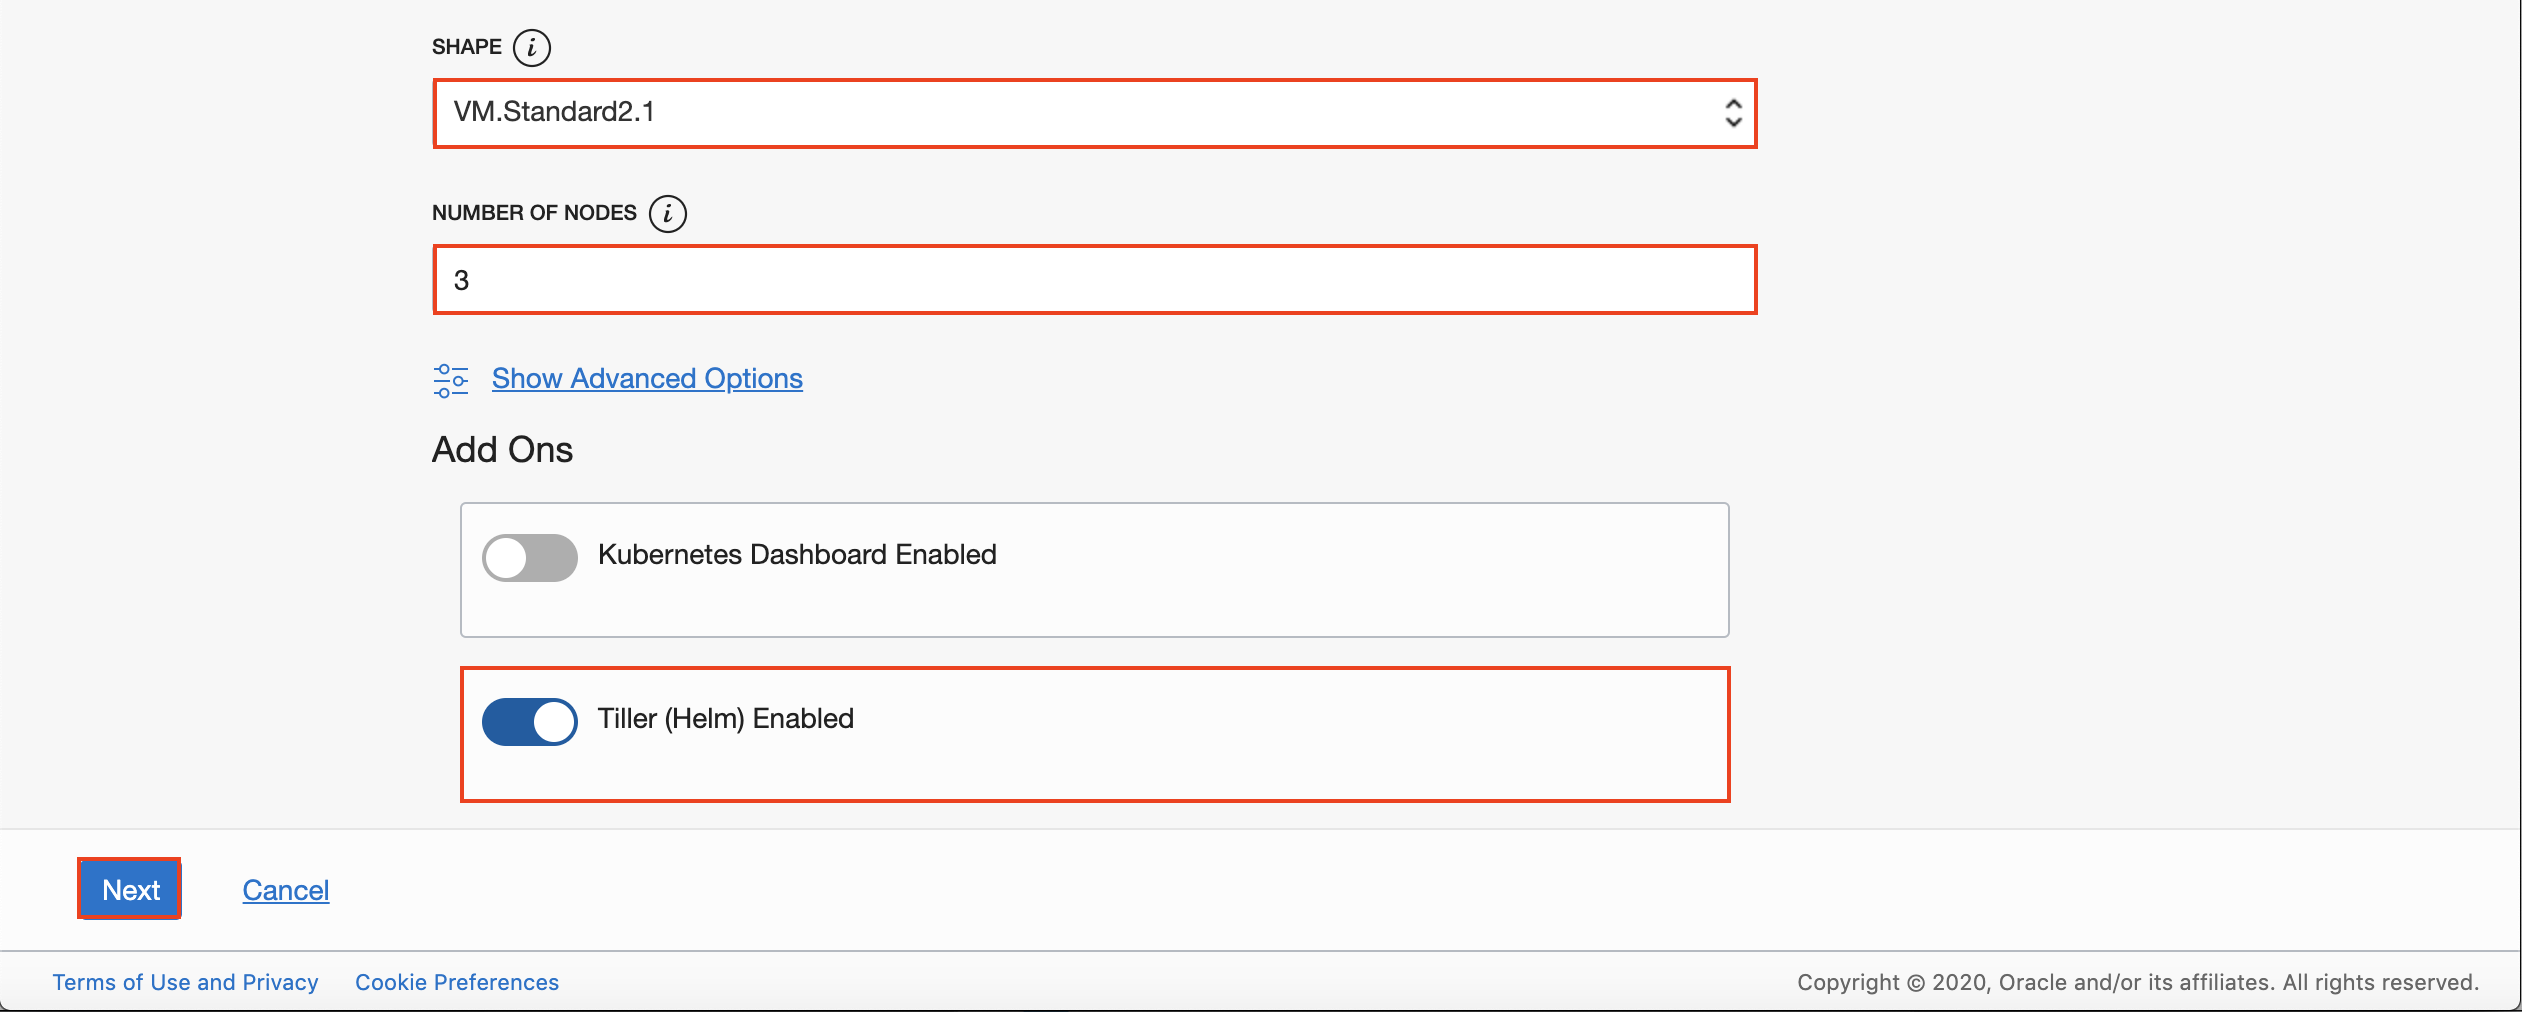
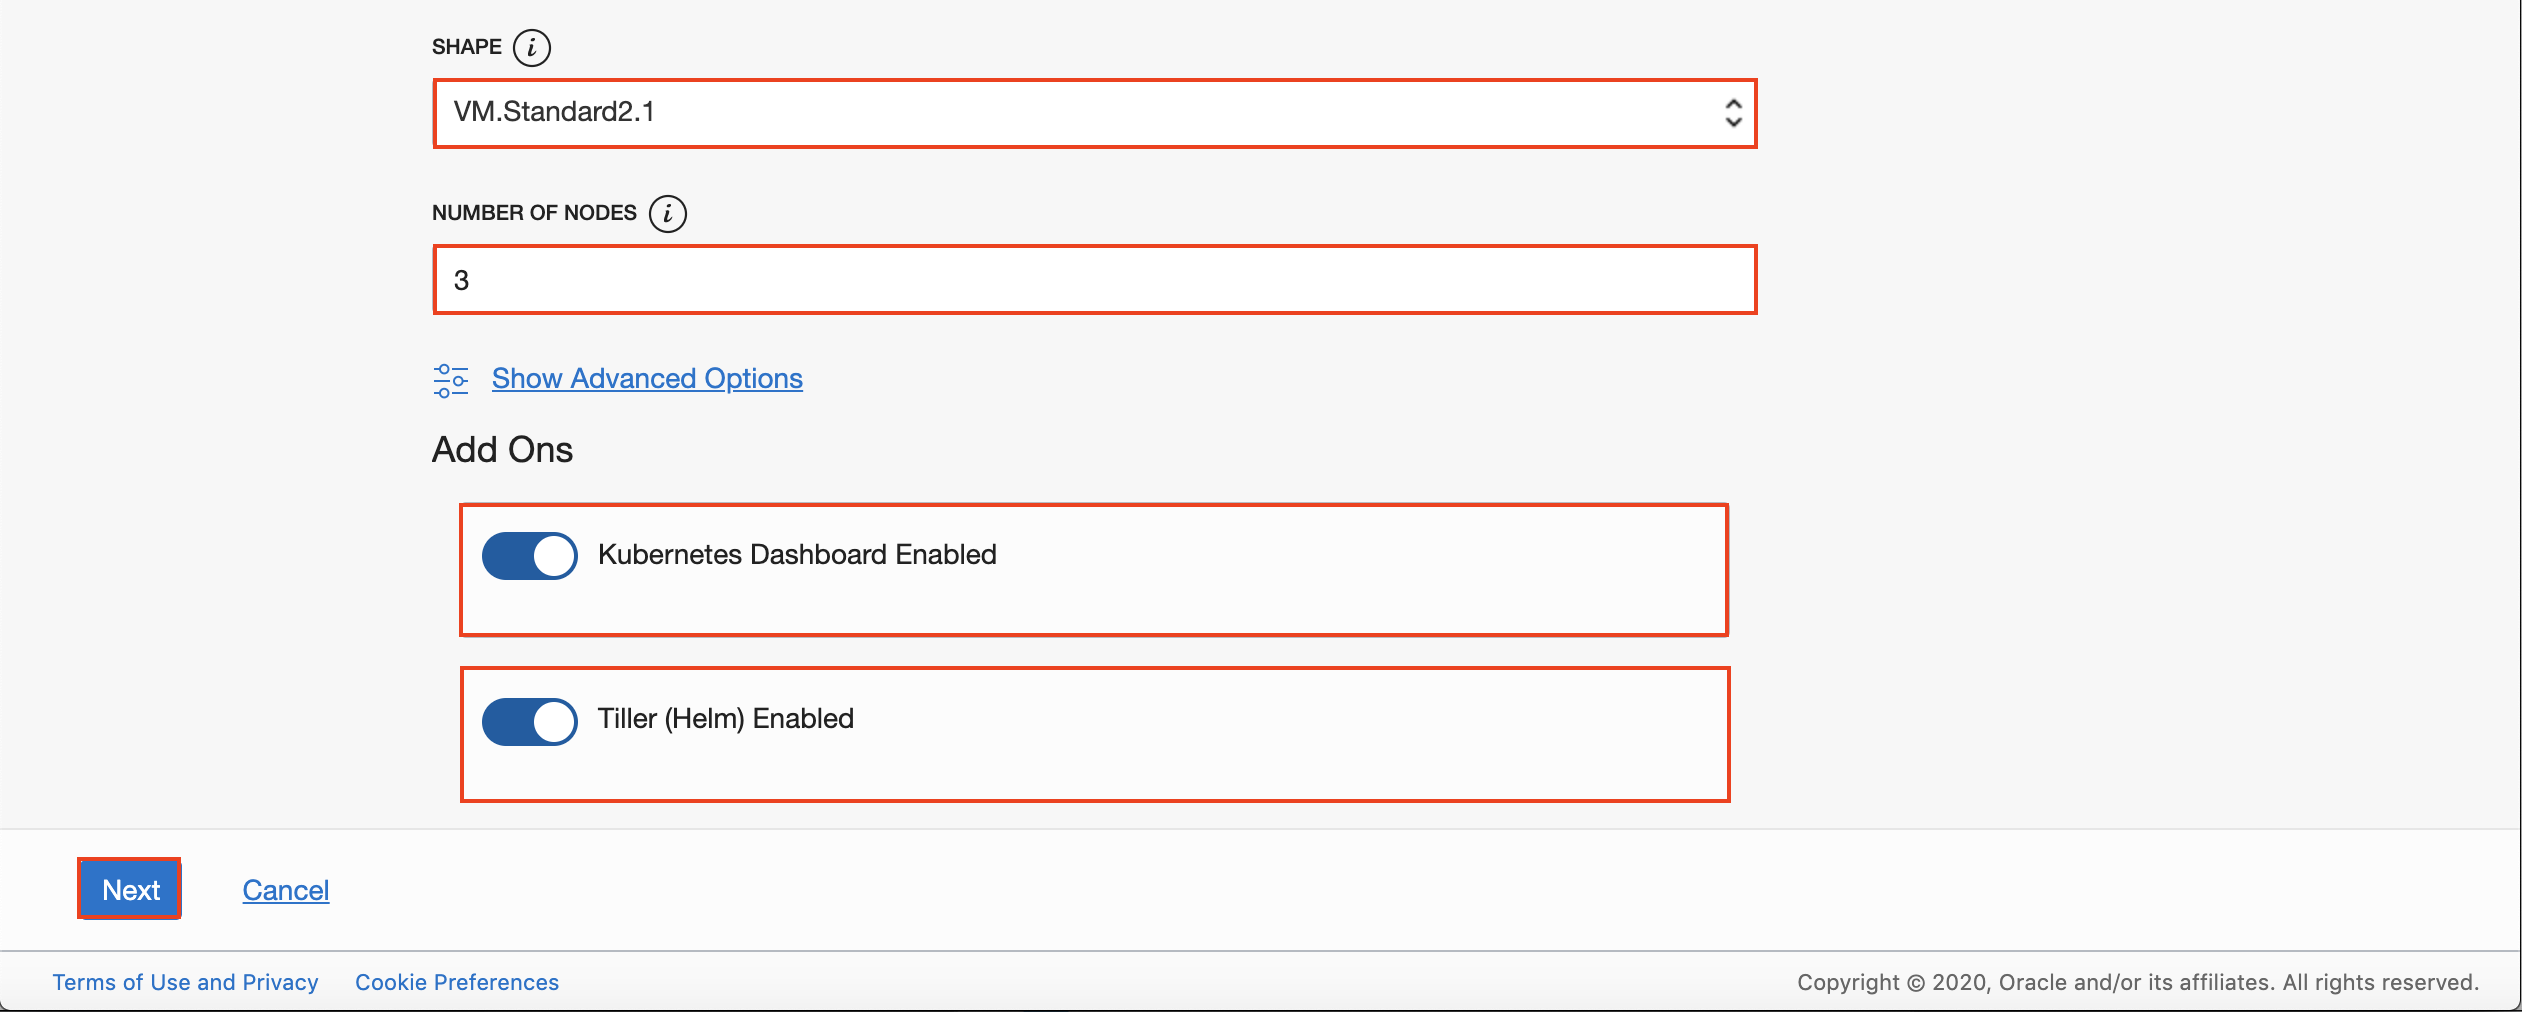
Updated with new screen captures

Changed region(s): [[0.1856, 0.4901, 0.6804, 0.582], [0.1856, 0.6126, 0.6804, 0.6433]]

diff --git a/tutorials/setup.oke.md b/tutorials/setup.oke.md
@@ -84,38 +84,47 @@ On the Cluster List page, click **Create Cluster**.
 
 ![alt text](images/oke/008.create.cluster.png)
 
-Specify the following configuration details:
+In the Create Cluster Solution dialog, select Quick Create and click Launch Workflow.
 
-- **Name**: The name of the new cluster. For example the default *cluster1*
-- **Kubernetes Version**: The Kubernetes version that runs on the master nodes and worker nodes of the cluster. Select the latest version.
-- Select **Quick Create** to create a new cluster with default settings, along with new network resources for the new cluster.
-The Create Virtual Cloud Network panel shows the network resources that will be created for you by default, namely a VCN, two load balancer subnets, and three worker node subnets.
+![alt text](images/oke/009.quick.1.png)
 
-	The Create Node Pool panel shows the fixed properties of the first node pool in the cluster that will be created for you:
+Select Quick Create to create a new cluster with default settings, along with new network resources for the new cluster. The Create Virtual Cloud Network panel shows the network resources that will be created for you by default, namely a VCN, two load balancer subnets, and three worker node subnets.
 
-	- the name of the node pool (always pool1)
-	- the compartment in which the node pool will be created (always the same as the one in which the new network resources will reside)
-	- the version of Kubernetes that will run on each worker node in the node pool (always the same as the version specified for the master nodes)
-        - the image to use on each node in the node pool
 
-The Create Node Pool panel also contains some node pool properties that you can change.
-- **Shape**: The shape to use for each node in the node pool. The shape determines the number of CPUs and the amount of memory allocated to each node. The list shows only those shapes available in your tenancy that are supported by Container Engine for Kubernetes. Select the available *VM.Standard2.1*
-- **Quantity per Subnet**: The number of worker nodes to create for the node pool in each subnet. Set *1*
-- **Public SSH Key**: Leave this field empty (screenshot contains some key - but for simplicity leave this empty)
-- **Kubernetes Dashboard Enabled**: leave the default true.
-- **Tiller (Helm) Enabled**: leave the default true.
+Specify the following configuration details on Cluster Creation page:
 
-Click **Create** to create the new network resources and the new cluster.
+- **Name**: The name of the cluster. Leave the default value.
+- **Compartment**: The name of the compartment. Leave the default value.
+- **Kubernetes version**: The version of the Kubernetes. Leave the default value.
+- **Choose Visibility Type**: Is the cluster going to be routable or not. Leave the default value.
+- **Shape**: The shape to use for each node in the node pool. The shape determines the number of CPUs and the amount of memory allocated to each node. The list shows only those shapes available in your tenancy that are supported by Container Engine for Kubernetes. Select the available VM.Standard2.1
+- **Number of nodes**: The number of worker nodes to create. Leave the default value 3
+- **Kubernetes Dashboard Enabled**: Change the default true and make it ENABLED.
+- **Tiller (Helm) Enabled**: Change the default true and make it ENABLED.
 
-![alt text](images/oke/009.quick.part.1.png)
-![alt text](images/oke/009.quick.part.2.png)
-![alt text](images/oke/009.quick.part.3.png)
+Click **Next** to review the details you entered for the new cluster.
 
-Click **Close** to return to the Console.
+![alt text](images/oke/009.quick.details.1.png)
+![alt text](images/oke/009.quick.details.2.png)
+
+On the Review page, click **Submit** to create the new network resources and the new cluster.
+
+![alt text](images/oke/009.quick.review.1.png)
+![alt text](images/oke/009.quick.review.2.png)
+![alt text](images/oke/009.quick.review.3.png)
+
+
+You see the different network resources being created for you.
+
+![alt text](images/oke/009.quick.submitted.png)
+
+Click **Close** and the new cluster is shown on the *Cluster Details* page. When it has been created, the new cluster has a status of *Active*.
+
+
 
 ## Prepare OCI CLI to download Kubernetes configuration file ##
 
-When you create a cluster, you need to download a Kubernetes configuration file (commonly known as a `kubeconfig` file) for the cluster. **To do so you have to add OCI API Signing key and configure OCI CLI on your workstation (Virtualbox environment or Remote Compute VM environment)**.
+When you create a cluster, you need to download a Kubernetes configuration file (commonly known as a `kubeconfig` file) for the cluster. **To do so you have to add OCI API Signing key and configure OCI CLI on your workstation (Remote Compute VM environment)**.
 
 ## Configure OCI CLI ##
 
@@ -143,7 +152,7 @@ Leave the console open during CLI configuration and copy the required informatio
 
 Note: If you need to install OCI CLI on your laptop natively then follow the [documentation](https://docs.cloud.oracle.com/iaas/Content/API/SDKDocs/cliinstall.htm).
 
-Otherwise OCI CLI is installed in the VirtualBox environment or in the Remote Compute VM environment.
+Otherwise OCI CLI is installed by default in the Remote Compute VM environment.
 
 ---
 

diff --git a/tutorials/domain.home.in.image_short.md b/tutorials/domain.home.in.image_short.md
@@ -22,39 +22,19 @@ This tutorial has been tested on Oracle Cloud Infrastructure Container Engine fo
 
 ### Prerequisites ###
 
-<<<<<<< HEAD
-The following labs require an Oracle Public Cloud account. You may use your own cloud account, or a cloud account that you obtained through a trial. However, if you do not have an account, please navigate to the following page to acquire an Oracle Cloud Trial Account [Acquire a Trial Account](https://github.com/APACTestDrive/Container-Native-Development-with-OKE/blob/master/TrialAccount.md).
-=======
-We recommend to run the client software (kubectl, git, helm) in of two environments: either inside Virtual Box on local machine or in the OCI Compute VM in the Oracle Cloud. 
-
-#### Option 1: Running client in Virtual Box ####
-
-- [Oracle Cloud Infrastructure](https://cloud.oracle.com/en_US/cloud-infrastructure) enabled account. The tutorial has been tested using [Trial account](https://myservices.us.oraclecloud.com/mycloud/signup) (as of January, 2019).
-- Desktop with Oracle Cloud Infrastructure CLI, `kubectl`, `helm`. [Download](https://drive.google.com/file/d/140JW-H5zzh0P709W-hdUPcbw_HZy2XcX), import VirtualBox image (total required space: OVA + imported image < 7 GB) and run configuration script to get tested environment for this workshop.
-  - If necessary first [download VirtualBox](https://www.virtualbox.org/wiki/Downloads) desktop software.
-- Inside Virtual Box open a terminal window and execute the following configuration script to prepare your desktop environment (VirtualBox image).
-```bash
-bash <(curl -s https://raw.githubusercontent.com/nagypeter/vmcontrol/master/setup-operator-workshop.sh)
-```
-- Close the terminal when the script has finished.
-
-#### Option 2: Running client in OCI Compute VM ####
-
-To setup the client VM in Oracle Cloud please  then follow this [tutorial](setup.dev.compute.instance.md). You later connect to that VM   through `ssh`.
-However in that case have in mind that the operator sources were cloned to the `/home/opc/` folder and the folder `/u01/content` doesn't exist in the VM. So whenever the tutorial asks you to change the current folder to `/u01/content/...` you should really move to `/home/opc/...`
->>>>>>> b1599703503c2e8256c19c0303442c2074f5d40c
+The following labs require an Oracle Public Cloud account. You may use your own cloud account, or a cloud account that you obtained through a trial. However, if you do not have an account, please navigate to the following page to acquire an Oracle Cloud Trial Account [Acquire a Trial Account](trial.account.md).
 
 
 
 ### The topics to be covered in this hands-on session are: ###
 
-1. [Setup Oracle Kubernetes Engine instance on Oracle Cloud Infrastructure](setup.oke.md)
-2. [Create Developer Compute VM on Oracle Cloud Infrastructure](setup.dev.compute.instance.md)
-2. [Install WebLogic Operator](install.operator.md)
-3. [Install Traefik Software Loadbalancer](install.traefik.md)
-4. [Deploy WebLogic Domain](deploy.weblogic_short.md)
-5. [Scaling WebLogic Cluster](scale.weblogic.md)
-6. [Override JDBC Datasource parameters](override.jdbc.md)
-7. [Updating deployed application by rolling restart to the new image](update.application_short.md)
-7. [Assigning WebLogic Pods to Nodes (scenario simulating cluster spanning 2 data center)](node.selector.md)
-8. [Assigning WebLogic Pods to Nodes (scenario simulating licensing only the subset of the cluster)](node.selector.license.md)
+ 1. [Setup Oracle Kubernetes Engine instance on Oracle Cloud Infrastructure](setup.oke.md)
+ 2. [Create Developer Compute VM on Oracle Cloud Infrastructure](setup.dev.compute.instance.md)
+ 3. [Install WebLogic Operator](install.operator.md)
+ 4. [Install Traefik Software Loadbalancer](install.traefik.md)
+ 5. [Deploy WebLogic Domain](deploy.weblogic_short.md)
+ 6. [Scaling WebLogic Cluster](scale.weblogic.md)
+ 7. [Override JDBC Datasource parameters](override.jdbc.md)
+ 8. [Updating deployed application by rolling restart to the new image](update.application_short.md)
+ 9. [Assigning WebLogic Pods to Nodes (scenario simulating cluster spanning 2 data center)](node.selector.md)
+ 10. [Assigning WebLogic Pods to Nodes (scenario simulating licensing only the subset of the cluster)](node.selector.license.md)

diff --git a/tutorials/trial.account.md b/tutorials/trial.account.md
@@ -1,0 +1,104 @@
+# Acquire an Oracle Cloud Trial
+
+## Objectives
+
+**Acquire an Oracle Cloud Trial Account**
+
+- Sign up for an Oracle Cloud Trial Account
+  - This is a free account
+  - You will receive a $500 credit
+
+
+## Required Artifacts
+
+- The following labs require an Oracle Public Cloud account. You may use your own cloud account, or a cloud account that you obtained through a trial.
+
+
+### **Step 1**: Acquire an Oracle Cloud Trial
+
+- It is recommended to use **Google Chrome** for the sign up process.
+
+- Please click on the following link to create your <a class="trial-link" href="https://myservices.us.oraclecloud.com/mycloud/signup?language=en&sourceType=:ex:tb:::RC_NAMK180826P00001:OKE_OCIR_HOL&SC=:ex:tb:::RC_NAMK180826P00001:OKE_OCIR_HOL&pcode=NAMK180826P00001" target="_trial">Free Account</a>, and complete all the required steps to get your free Oracle Cloud Trial Account. When you complete the registration process you'll receive a $500 credit that will enable you to complete the lab for free.  Additionally, you'll have 1000s of hours left over to continue to explore the Oracle Cloud._
+
+- On the Sign Up page enter your email. Use the same email address you provided to Oracle when you signed up for this lab.
+
+  ![](images/trial/1.png)
+
+- Wait a moment for your email address to be verified. This will be followed by a pop up diaglog box.
+
+  ![](images/trial/2.png)
+
+-  Click **OK** on the **Special Oracle Offer** pop up dialog box to accept the $500 trial credits for 30 days.
+
+  ![](images/trial/3.png)
+
+- The _Country/Territory_ field should be default to **United States**. Select **Taiwan** from the dropdown list.
+
+  ![](images/trial/4.png)
+
+- Click **Next** to enter your account details.
+
+  ![](images/trial/5.png)
+
+- Select **Personal Use** on the **Enter Account Details**
+
+  ![](images/trial/6.png)
+
+- Enter your **Cloud Account Name**
+
+- Select _US East (Ashburn)_ in the **Home Region** dropdown list.
+
+- And complete your name.
+
+  ![](images/trial/7.png)
+
+- Enter your **Address**, **City**, **Zip/Postal Code** and **Contact Phone Number**.
+
+  ![](images/trial/8.png)
+
+- Enter your **Password** and **Confirm Password**
+
+  ![](images/trial/9.png)
+
+- Click **Review Terms and Conditions**
+
+  ![](images/trial/10.png)
+
+- Check the **Complete** check box and click on **Complete Sign-Up**
+
+  ![](images/trial/11.png)
+
+- Please wait while your account is being created.
+
+  ![](images/trial/12.png)
+
+- Once completed you will be redirected to the Oracle Cloud Infrastructure (OCI) Console.
+
+- Enter your _USER NAME_ and _PASSWORD_
+
+- Please take note of your _cloud tenant_ name.
+
+  ![](images/trial/13.png)
+
+- Wait whilst you are being logged in.
+
+  ![](images/trial/14.png)
+
+- Once you are logged in you will be directed to the home page for you OCI Console.
+
+  ![](images/trial/15.png)
+
+- You will need to change the language to English in order to follow the lab directions. Clicking on the global icon.
+
+  ![](images/trial/16.png)
+
+- Select _English_ from the dropdown list.
+
+  ![](images/trial/17.png)
+
+- Your OCI Console home page will be reloaded in English.
+
+  ![](images/trial/18.png)
+
+
+**You are now ready to move to the next lab: [Lab 200](LabGuide200.md)**

diff --git a/tutorials/deploy.weblogic.md b/tutorials/deploy.weblogic.md
@@ -13,7 +13,6 @@ kubectl -n sample-domain1-ns create secret generic sample-domain1-weblogic-crede
   --from-literal=password=welcome1
 ```
 
-<<<<<<< HEAD
 You can see the created secret in the Kubernetes Dashboard.
 
 ![](images/deploy.domain/001.secrets.png)
@@ -31,9 +30,6 @@ You can see the labels for your secret in the Kubernetes Dashboard and you can a
 ![](images/deploy.domain/002.labels.png)
 
 Create OCI image Registry secret to allow Kubernetes to pull your custom WebLogic image. Replace the registry server region code, username and auth token respectively.
-=======
-Create OCI image Registry secret to allow Kubernetes to pull you custome WebLogic image. Replace the registry server region code, username and auth token respectively.
->>>>>>> b1599703503c2e8256c19c0303442c2074f5d40c
 WARNING!!! - be careful about username - docker-username parameter should have a value of YOUR_TENACY_NAME/YOUR_OCIR_USERNAME - don't skip YOUR_TENANCY_NAME please.
 ```
 kubectl create secret docker-registry ocirsecret \

diff --git a/tutorials/deploy.weblogic_short.md b/tutorials/deploy.weblogic_short.md
@@ -12,7 +12,6 @@ kubectl -n sample-domain1-ns create secret generic sample-domain1-weblogic-crede
   --from-literal=username=weblogic \
   --from-literal=password=welcome1
 ```
-<<<<<<< HEAD
 
 You can see the created secret in the Kubernetes Dashboard.
 
@@ -25,8 +24,6 @@ kubectl label secret sample-domain1-weblogic-credentials \
   weblogic.domainUID=sample-domain1 \
   weblogic.domainName=sample-domain1
 ```
-=======
->>>>>>> b1599703503c2e8256c19c0303442c2074f5d40c
 
 ## Update Traefik loadbalancer and WebLogic Operator configuration ##
 

diff --git a/tutorials/setup.dev.compute.instance.md b/tutorials/setup.dev.compute.instance.md
@@ -131,7 +131,7 @@ Warning: Permanently added '129.213.52.177' (ECDSA) to the list of known hosts.
 
 Once you have connected to the compute VM run a single remote script to setup the necessary tools:
 ```bash
-bash <(curl -s https://raw.githubusercontent.com/nagypeter/vmcontrol/master/setup-operator-workshop.sh)
+bash <(curl -s https://gitlab.com/heungheung/wlsoprvm/-/raw/master/setup-operator-workshop.sh)
 ```
 
 When the script finished your compute VM is ready to use for the workshop.
